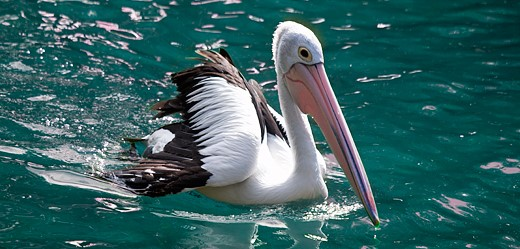
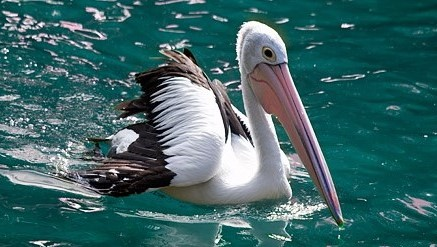
final changes to website, project terminated

diff --git a/blog/templates/index.html b/blog/templates/index.html
@@ -2,13 +2,13 @@
 {% load staticfiles %}
 
 {% block content %}
-<div class="container text-center">
+<div class="container-fluid text-left">
   <div class="row intro">
-    <div class="col-sm-12 text-left"
+    <div class="col-sm-12"
     style="background-color:#07889B; color:#ffffff; padding: 10px 20px;">
       <h1 style="font-size: 2.9em;">WHAT IS "PLASTIC-WATCH"?</h1>
       <div class="col-md-8 order-md-1">
-        <p class="lead" style="text-align: justify">
+        <p style="font-size: 1.4em; text-align: justify">
           <br>
           We want to change how people think about eating out.
           Do you go to restaurants and automatically get plastic straws in your drinks?
@@ -35,11 +35,11 @@
   </div>
   <hr class ="divider 1">
   <div class = "row diagram"
-  style="color:#ffffff; background-color:#EEAA7B; padding: 10px 0px;">
+  style="color:#ffffff; background-color:#E37222; padding: 10px 0px;">
     <h2 style="text-align: left; padding: 0px 15px">
       What is plastic and what does it do to the environment?
     </h2>
-    <h4 style="font-size: 1.5em; padding: 25px 50px 50px; text-align: justify">
+    <h4 style="font-size: 1.25em; padding: 25px 50px 50px; text-align: justify">
       Plastic is an organic polymer made up of long, well-packed carbon chains
       that makes it almost impossible to break down on its own. When rain or
       strong winds come through, they blow over trashcans or wash trash from the
@@ -53,17 +53,18 @@
       from the plastic. Plastic also floats in the ocean, getting caught up in
       the currents and forming “trash islands” that transport invasive species.
     </h4>
-    <img class="trash life cycle img-rounded"
-    style="width: 660px; height: 381px; margin: 0px 25px 25px; margin-left: auto; margin-right: auto;"
-    src="{% static 'images/trash-travel-diagram.jpg' %}">
+    <div style="text-align: center">
+      <img class="trash life cycle img-rounded"
+      style="width: 660px; height: 381px; margin: 0px 25px 25px; margin-left: auto; margin-right: auto;"
+      src="{% static 'images/trash-travel-diagram.jpg' %}">
+    </div>
   </div>
-  <hr class="divider 2">
-  <div class = "animal conservation"
-  style="background-color:#66B9BF; color:#ffffff; padding: 25px">
+  <div class = "row animal conservation"
+  style="background-color:#66B9BF; color:#ffffff; padding: 25px;">
     <div class="row animal 1">
       <div class="col-md-3">
         <img class="img-rounded"
-        style="width: 250px; height: 187px; margin: 10px;"
+        style="width: 250px; height: 157px; margin: 10px;"
         src="{% static 'images/seaturtle2.jpg' %}">
       </div>
       <div class="col-md-9">
@@ -83,75 +84,68 @@
     <div class="row animal 3">
       <div class="col-md-3">
         <img class="img-rounded"
-         style="width: 250px; height: 120px; margin: 10px;"
-         src="{% static 'images/pelican.JPG' %}">
+         style="width: 250px; height: 141px; margin: 10px;"
+         src="{% static 'images/pelican.jpg' %}">
       </div>
       <div class="col-md-9">
         <p>info about animal 3 goes here</p>
       </div>
     </div>
   </div>
-  <hr class="divider 3">
-  <div class = "row lifecycle"
-  style="background-color:#E37222; color:#ffffff; padding: 10px 0px;">
-    <h2 class="lifecycle-heading" style="text-align: left; padding: 0px 15px">
-      Lifecycle of Plastic
-    </h2>
-    <div class="col-md-auto">
-      <p style="font-size: 1.5em; padding: 25px 50px 10px; text-align: justify">
-        One of the biggest problems with plastic is that it does
-        not degrade well. Making more and more plastic to meet consumer demand
-        results in an accumulation of plastic that has nowhere to go! The
-        solution? Reduce, Reuse, and Recycle! When thinking about alternative
-        products for plastic and their environmental impact, a life cycle
-        analysis shows the environmental cost of making a product. The life of a
-        piece of plastic follows a 6-stage process: getting the ingredients via
-        a supplier, transporting the ingredients, manufacturing the ingredients
-        into a product, packaging the product, using the product, and disposing
-        of the product. For many plastics, the disposal portion of this lifecycle
-        can take over 1000 years. For biodegradable plastics, this can be
-        shortened to less than a year. If you introduce recycling, the disposal
-        portion can be skipped and the plastics can be made to make new products
-        without using the first three stages of the life cycle, which are costly
-        for the environment. </p>
+  <hr class="divider 2">
+  <div class = "row lifecycle" style="background-color:#ffffff;">
+    <div class="col-md-7">
+      <h2 class="lifecycle-heading" style="padding: 0px 15px">
+        Lifecycle of Plastic
+      </h2>
+      <p style="font-size: 1.25em; padding: 25px 50px 10px; text-align: justify">
+          One of the biggest problems with plastic is that it does
+          not degrade well. Making more and more plastic to meet consumer demand
+          results in an accumulation of plastic that has nowhere to go! The
+          solution? Reduce, Reuse, and Recycle! When thinking about alternative
+          products for plastic and their environmental impact, a life cycle
+          analysis shows the environmental cost of making a product. The life of a
+          piece of plastic follows a 6-stage process: getting the ingredients via
+          a supplier, transporting the ingredients, manufacturing the ingredients
+          into a product, packaging the product, using the product, and disposing
+          of the product. For many plastics, the disposal portion of this lifecycle
+          can take over 1000 years. For biodegradable plastics, this can be
+          shortened to less than a year. If you introduce recycling, the disposal
+          portion can be skipped and the plastics can be made to make new products
+          without using the first three stages of the life cycle, which are costly
+          for the environment. </p>
     </div>
-    <div class="picture row">
-      <div class="col-md-3">
-      </div>
-      <div class="col-md-6">
+    <div class="picture row col-md-5" style="text-align: center;">
         <img class="lifecycle-image img-circle"
-        style="width: 450px; height: 450px; padding: 25px"
-        src="{% static 'images/lifecycle.png' %}">
-      </div>
-      <div class="col-md-3">
-      </div>
+        style="width: 450px; height: 450px; padding: 10px; margin-left: auto; margin-right: auto;"
+        src="{% static 'images/lifecycle-border.png' %}">
     </div>
   </div>
-  <hr class="divider 4">
-  <div class="row pilot study" style="background-color:#07889B; color:#ffffff">
+  <hr class="divider 3">
+  <div class="row pilot study" style="background-color:#E37222; color:#ffffff; text-align:center">
     <div class="col-md-12">
       <h2 class="heading" style="text-align: left">
         Solomon's Island: A Pilot Study
       </h2>
-      <div class="col-md-6">
+      <div class="col-md-12">
         <img class="solomon-image"
         style=" width: 350px; height: 263px; margin: 10px;"
         src="{% static 'images/solomon.jpg' %}">
-      </div>
-      <div class="col-md-6">
         <img class="bay-image"
-        style="width: 485px; height: 263px; margin: 10px;"
+        style="width: 404px; height: 263px; margin: 10px;"
         src="{% static 'images/cbay.jpg' %}">
       </div>
-      <div class="caption-row" style="color:#EEAA7B; font-weight: bold">
-        <div class="col-md-6">
+      <div class="caption-row" style="font-weight: bold">
+        <div class="col-md-2"></div>
+        <div class="col-md-4">
           <p style="font-size: 1.5em;">Solomon's Island</p>
         </div>
-        <div class="col-md-6">
+        <div class="col-md-3">
           <p style="font-size: 1.5em;">Chesapeake Bay</p>
         </div>
+        <div class="col-md-3"></div>
+        </div>
       </div>
-    </div>
     <div class="col-md-12">
       <p style="font-size: 1.5em; padding: 25px 50px 10px; text-align: justify">
         In Summer of 2018, we are forming partnerships with up to four
@@ -175,7 +169,7 @@
 
 <hr>
 
-<footer class="container-fluid text-center" style="background-color:#E37222;color:#ffffff">
+<footer class="container-fluid text-center" style="background-color:#eeaa7b;">
   <p>Footer Text</p>
 </footer>
 {% endblock %}

diff --git a/blog/templates/blog/base.html b/blog/templates/blog/base.html
@@ -38,7 +38,7 @@
         </nav>
         {% endblock %}
       </div>
-      <div class="content container">
+      <div class="content container-fluid">
         {% block content %}<!-- inserts everything in index.html-->{% endblock %}
       </div>
     </body>
